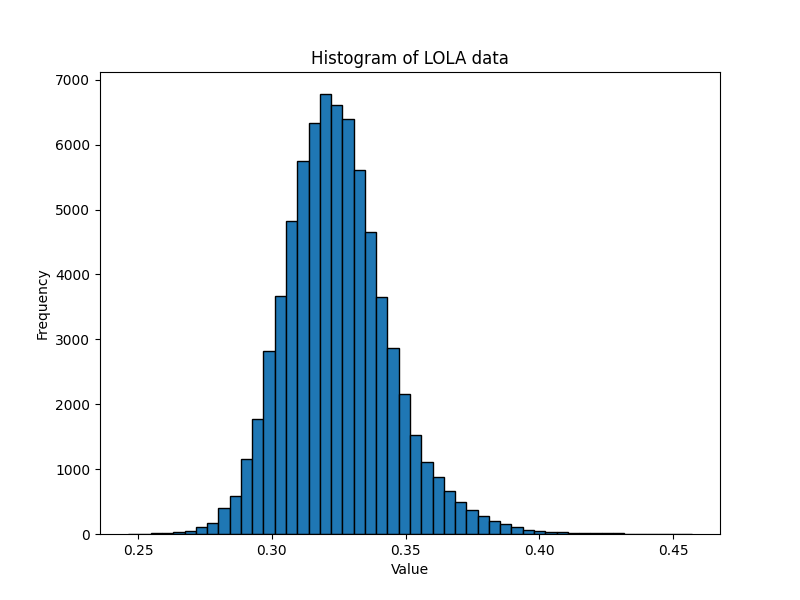
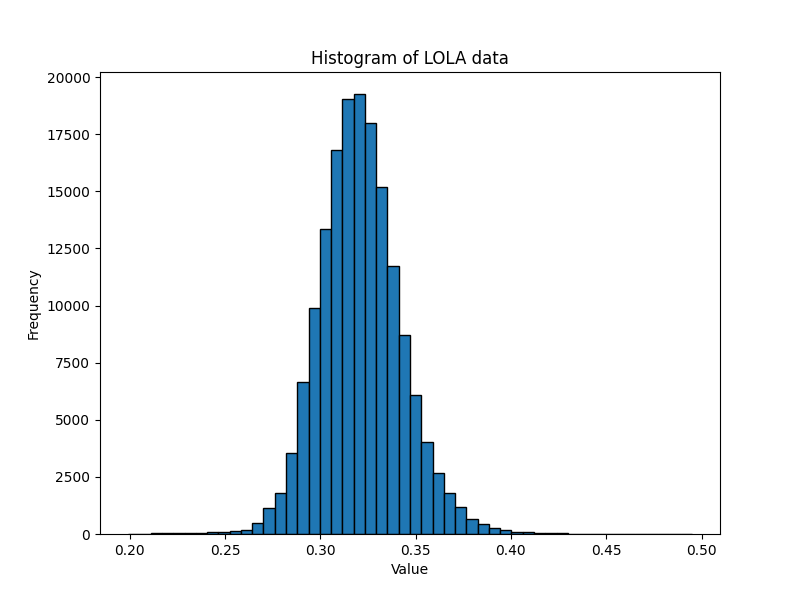
Working load dfs (probs)

diff --git a/data_processing/utils/load_dfs.py b/data_processing/utils/load_dfs.py
@@ -51,20 +51,12 @@ def generate_LRO_coords(image_shape, metadata):
 
     proj_type = get_metadata_value(metadata, 'IMAGE_MAP_PROJECTION', 'MAP_PROJECTION_TYPE', string=True)
 
-    # a_km = float(get_metadata_value(metadata, 'IMAGE_MAP_PROJECTION', 'A_AXIS_RADIUS')) if center_lat == 0.0 else 1737.4   # Moon's radius in km
     a_km = float(get_metadata_value(metadata, 'IMAGE_MAP_PROJECTION', 'A_AXIS_RADIUS'))  # Moon's radius in km
-    a_km = 1737.4 if a_km is None else a_km  # Default to Moon's radius if not found in metadata
-    a = a_km * 1e3  # Convert to meters as map_scale is m/pixel
+    a = 1737.4 * 1e3 if a_km is None else a_km * 1e3  # Default to Moon's radius if not found in metadata and convert to meters as map_scale is m/pixel
 
     if center_lat == 0.0:  # Equatorial (Mini-RF) - Simple Cylindrical
         assert proj_type == 'SIMPLE CYLINDRICAL', f"Unsupported projection type: {proj_type}"
         assert center_lat == 0.0 and center_lon == 0.0, "Center latitude and longitude must be 0.0 for Simple Cylindrical"
-        # lons = np.degrees(x / a)
-        # lon_scale = 360 / (2 * np.max(np.abs(lons)))  # Scale factor for longitudes
-        # lons = (lons * lon_scale + 360) % 360  # Apply scaling and wrap to [0, 360]
-
-        # # Map y directly to latitude range [-90, 90]
-        # lats = y * (max_lat - min_lat) / np.max(np.abs(y))  # Scale y to latitude range
 
         line_idxs = np.arange(lines)
         sample_idxs = np.arange(samples)
@@ -72,8 +64,11 @@ def generate_LRO_coords(image_shape, metadata):
         sample_grid, line_grid = np.meshgrid(sample_idxs, line_idxs)
 
         lats = (line_grid - line_proj_offset) / map_res
+        if lats.max() > 91 or lats.min() < -91:
+            raise ValueError(f"WARNING: Latitude values exceed bounds for Simple Cylindrical projection: {lats.min()} - {lats.max()}")
+
+        lats = np.clip(lats, -90, 90)   # due to line projection offset, lats can reach +- 90.31 so clip is applied
         lons = (sample_grid - sample_proj_offset) / map_res
-        lons = lons % 360
 
     else:   # Polar Stereographic (LOLA, Diviner)
         assert proj_type == 'POLAR STEREOGRAPHIC', f"Unsupported projection type: {proj_type}"
@@ -88,7 +83,6 @@ def generate_LRO_coords(image_shape, metadata):
 
         # lons = center_lon + np.degrees(np.arctan2(y, x))
         lons = center_lon + np.degrees(np.arctan2(x, -y))
-        lons = lons % 360
 
         if center_lat == 90.0:  # North Pole
             lats = center_lat - np.degrees(c)
@@ -97,10 +91,7 @@ def generate_LRO_coords(image_shape, metadata):
         else:
             raise ValueError(f"Center latitude is not supported: {center_lat}")
 
-    # Adjust latitude range to min_lat to max_lat
-    # lat_scale = (max_lat - min_lat) / (np.max(lats) - np.min(lats))
-    # lats = min_lat + (lats - np.min(lats)) * lat_scale
-    # lats = np.clip(lats, min_lat, max_lat)
+    lons = lons % 360   # Convert to 0-360 range
 
     return lons, lats
 
@@ -148,13 +139,13 @@ def load_lro_df(data_dict, data_type, plot_frac=0.25, debug=False):
         lons = lons.flatten()
         lats = lats.flatten()
 
-        assert np.all((lons >= 0) & (lons <= 360)), "Some longitude values are out of bounds."
-        assert np.all((lats >= -90) & (lats <= 90)), "Some latitude values are out of bounds."
-
         output_vals[(output_vals < min_val) | (output_vals > max_val)] = np.nan
 
-        valid_mask = ((lats <= -80) & (lats >= -90)) | ((lats <= 90) & (lats >= 80))
-        valid_mask &= np.isfinite(output_vals)
+        valid_mask = ((lats <= -75) & (lats >= -90)) | ((lats <= 90) & (lats >= 75))
+        valid_mask &= np.isfinite(output_vals)  # Remove non-finite vals from output_vals and clip coords to poles
+
+        assert np.all((lons >= 0) & (lons <= 360)), f"Some longitude values are out of bounds for {data_type}: \n{lons<0} \n{lons>360}"
+        assert np.all((lats >= -90) & (lats <= 90)), f"Some latitude values are out of bounds for {data_type}: \n{lats<-90} \n{lats>90}"
 
         df = pd.DataFrame({
             'Longitude': lons[valid_mask],
@@ -177,6 +168,11 @@ def load_lro_df(data_dict, data_type, plot_frac=0.25, debug=False):
             df_list.append(df_temp)
 
     df = pd.concat(df_list, ignore_index=True)
+
+    # Cast lon and lat to float32 to save memory
+    # For lunar coordinates, this moves from sub-micrometer accuracy to sub-centimeter accuracy
+    df['Longitude'] = df['Longitude'].astype(np.float32)
+    df['Latitude'] = df['Latitude'].astype(np.float32)
 
     if plot_save_path:
         plot_polar_data(df, data_type, frac=plot_frac, save_path=plot_save_path)
@@ -337,6 +333,7 @@ def load_m3_df(data_dict, plot_frac=0.25, debug=False):
     if len([f for f in os.listdir(data_dict['save_path']) if f.endswith('.csv') and 'lon' in f]) == 12:
         print(f"Raw CSVs for M3 found at: {data_dict['save_path']}. Skipping load df...")
         return
+    print(f"Processing M3 data..."); sys.stdout.flush()
 
     file_path = data_dict['file_path']
     address = data_dict['address']
@@ -366,7 +363,7 @@ def load_m3_df(data_dict, plot_frac=0.25, debug=False):
         assert np.all((lons >= 0) & (lons <= 360)), "Some longitude values are out of bounds."
         assert np.all((lats >= -90) & (lats <= 90)), "Some latitude values are out of bounds."
 
-        valid_mask = ((lats <= -80) & (lats >= -90)) | ((lats <= 90) & (lats >= 80))
+        valid_mask = ((lats <= -75) & (lats >= -90)) | ((lats <= 90) & (lats >= 75))
         valid_mask &= np.isfinite(output_vals) & np.isfinite(elev)
 
         df = pd.DataFrame({
@@ -391,6 +388,11 @@ def load_m3_df(data_dict, plot_frac=0.25, debug=False):
             df_list.append(df_temp)
 
     df = pd.concat(df_list, ignore_index=True)
+
+    # Cast lon and lat to float32 to save memory
+    # For lunar coordinates, this moves from sub-micrometer accuracy to sub-centimeter accuracy
+    df['Longitude'] = df['Longitude'].astype(np.float32)
+    df['Latitude'] = df['Latitude'].astype(np.float32)
 
     if plot_save_path:
         plot_polar_data(df, 'M3', frac=plot_frac, save_path=plot_save_path)

diff --git a/data_processing/utils/utils.py b/data_processing/utils/utils.py
@@ -284,6 +284,9 @@ def plot_polar_data(df, variable, graph_cat='raw', frac=None, random_state=42, s
     north_pole_ddf = (ave_ddf[ave_ddf['Latitude'] >= 0]).copy()
     south_pole_ddf = (ave_ddf[ave_ddf['Latitude'] < 0]).copy()
 
+    vmin = ave_ddf[variable].min()  # Minimum value for color mapping (to capture across both poles)
+    vmax = ave_ddf[variable].max()  # Maximum value for color mapping (to capture across both poles)
+
     def prepare_polar_data(ddf, pole):
         if len(ddf.index) == 0:
             return ddf
@@ -301,15 +304,15 @@ def plot_polar_data(df, variable, graph_cat='raw', frac=None, random_state=42, s
     fig, (ax1, ax2) = plt.subplots(1, 2, subplot_kw={'projection': 'polar'}, figsize=(20, 10))
 
     def set_latitude_labels(ax, pole):
-        ax.set_ylim(0, 10)
-        ax.set_yticks(range(0, 11, 5))
-        labels = [str(90 - x) if pole == 'north' else str(-90 + x) for x in range(0, 11, 5)]
+        ax.set_ylim(0, 15)
+        ax.set_yticks(range(0, 16, 5))
+        labels = [str(90 - x) if pole == 'north' else str(-90 + x) for x in range(0, 16, 5)]
         ax.set_yticklabels(labels)
 
     def plot_pole_data(ax, df, pole):
         if len(df.index) == 0:
             return
-        sc = ax.scatter(df['theta'], df['r'], c=df[variable], cmap='Greys_r', s=50)
+        sc = ax.scatter(df['theta'], df['r'], c=df[variable], cmap='Greys_r', s=50, vmin=vmin, vmax=vmax)  
         fig.colorbar(sc, ax=ax, label=variable)
         set_latitude_labels(ax, pole)
         ax.set_theta_zero_location('N')
@@ -343,6 +346,9 @@ def plot_polar_data(df, variable, graph_cat='raw', frac=None, random_state=42, s
 def plot_labeled_polar_data(df, variable, label_column, save_path=None):
     # Filter the DataFrame to include only rows where label_column > 0
     df_filtered = df[df[label_column] > 0].copy()
+
+    vmin = df_filtered[variable].min()
+    vmax = df_filtered[variable].max()
 
     # Check if there is data to plot
     if df_filtered.empty:
@@ -394,7 +400,7 @@ def plot_labeled_polar_data(df, variable, label_column, save_path=None):
         # Plot data points with labels
         for label, colour in colour_map.items():
             df_subset = df[df[label_column] == label]
-            ax.scatter(df_subset['theta'], df_subset['r'], c=colour, s=10, label=f'Label {label}')
+            ax.scatter(df_subset['theta'], df_subset['r'], c=colour, s=10, label=f'Label {label}', vmax=vmax, vmin=vmin)
 
         ax.set_ylim(0, 10)
         ax.set_yticks(range(0, 11, 5))
@@ -439,6 +445,9 @@ def plot_psr_data(df, variable, graph_cat='raw', frac=None, random_state=42, sav
     north_pole_ddf = (ave_ddf[ave_ddf['Latitude'] >= 0]).copy()
     south_pole_ddf = (ave_ddf[ave_ddf['Latitude'] < 0]).copy()
 
+    vmin = ave_ddf[variable].min()
+    vmax = ave_ddf[variable].max()
+
     def prepare_polar_data(ddf, pole):
         if len(ddf.index) == 0:
             return ddf
@@ -471,7 +480,7 @@ def plot_psr_data(df, variable, graph_cat='raw', frac=None, random_state=42, sav
         for category in categories:
             subset = df[df[variable] == category]
             if not subset.empty:
-                ax.scatter(subset['theta'], subset['r'], label=f'Category {category}', color=category_colors[category], s=50)
+                ax.scatter(subset['theta'], subset['r'], label=f'Category {category}', color=category_colors[category], s=50, vmin=vmin, vmax=vmax)
         set_latitude_labels(ax, pole)
         ax.set_theta_zero_location('N')
         ax.set_theta_direction(-1)
@@ -515,6 +524,8 @@ def generate_mesh(RESOLUTION=0.24):
         lats = np.arange(lat_range[0], lat_range[1] + resolution_deg, resolution_deg)
         lons = np.arange(lon_range[0], lon_range[1] + resolution_deg, resolution_deg)
         lon_grid, lat_grid = np.meshgrid(lons, lats)
+        lon_grid = lon_grid.astype(np.float32)
+        lat_grid = lat_grid.astype(np.float32)
         return lon_grid, lat_grid
 
     meshes = []

diff --git a/data_processing/process_data.py b/data_processing/process_data.py
@@ -22,7 +22,7 @@ def main(args):
     with ProcessPoolExecutor(max_workers=args.n_workers) as executor:
         load_futures = [
             executor.submit(load_lro_df, dataset_dict['Diviner'], 'Diviner', debug=True),
-            executor.submit(load_lro_df, dataset_dict['LOLA'], 'LOLA', debug=True),
+            executor.submit(load_lro_df, dataset_dict['LOLA'], 'LOLA', debug=True, plot_frac=0.5),
             executor.submit(load_m3_df, dataset_dict['M3'], debug=True),
             executor.submit(load_lro_df, dataset_dict['MiniRF'], 'MiniRF', debug=True)
         ]
@@ -34,7 +34,6 @@ def main(args):
                 raise e
 
     print(f"Loading stage complete after {(time.time() - start_time) /60:.2f} mins\n"); sys.stdout.flush()
-    return 
 
     with ProcessPoolExecutor(max_workers=args.n_workers) as executor:
         interp_futures = [
